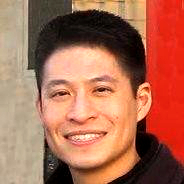
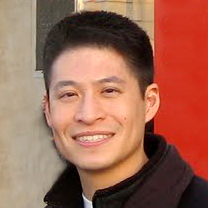
updated S's photo and reduced overlapping margin

diff --git a/src/App.css b/src/App.css
@@ -152,7 +152,7 @@ section {
  width: 80%;
  height: 220px;
  padding: 20px;
- margin: 0px auto 0px -50px;
+ margin: 0px auto 0px -30px;
  box-shadow: 0px 4px 6px -1px rgba(0, 0, 0, 0.35);
  background-color: white;
 }
@@ -227,7 +227,7 @@ section {
   width: 80%;
   height: 220px;
   padding: 20px;
-  margin: 0px -50px 0px auto;
+  margin: 0px -30px 0px auto;
   box-shadow: 0px 4px 6px -1px rgba(0, 0, 0, 0.35);
   background-color: rgb(186, 44, 108);
 }
